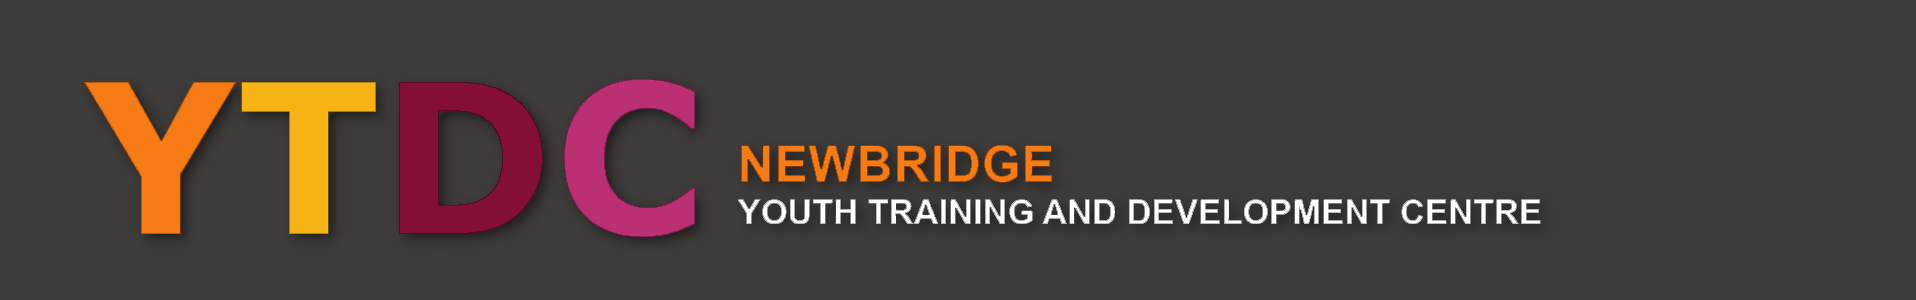
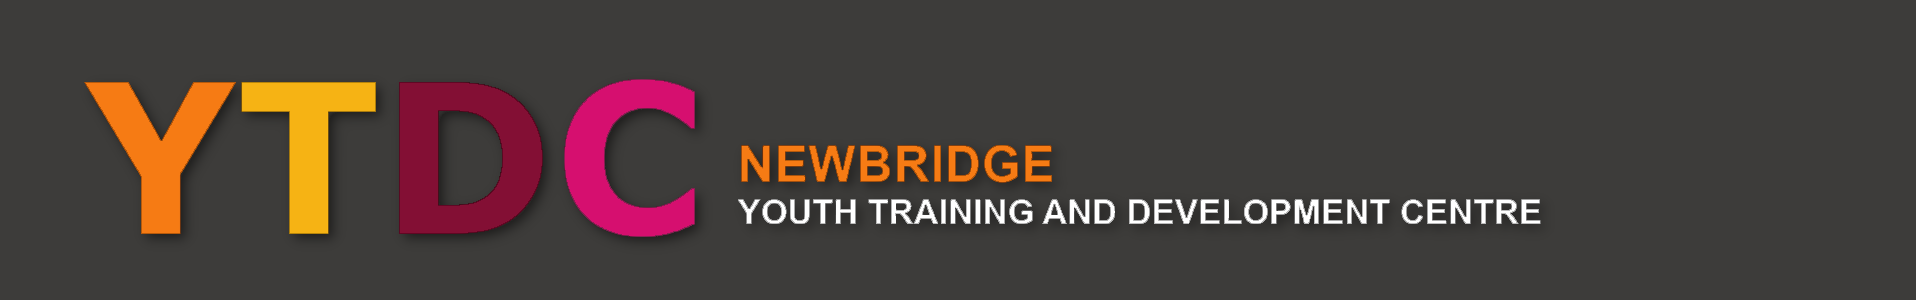
new pink bruh

Changed region(s): [[0.2771, 0.27, 0.3695, 0.78]]

diff --git a/style.css b/style.css
@@ -18,7 +18,7 @@
 }
 /* Setting navbar color */
 nav {
-	background-color: #bb3073;
+	background-color: #d60f6f;
 }
 
 .nav-item {
@@ -76,7 +76,7 @@ nav {
 
 /* reaction to hover on p in mega-menu*/
 .mega-menu p:hover, .single-menu p:hover {
-	background-color: #bb3073;
+	background-color: #d60f6f;
 	line-height: 40px;
 }
 
@@ -198,7 +198,7 @@ nav {
 
 /* changing color of hover to be pink*/
 .btn-outline-warning:hover {
-	color: #bb3073;
+	color: #d60f6f;
 	
 }
  /* Set the size of the div element that contains the map */
@@ -216,7 +216,7 @@ nav {
 
 footer {
 	color: #fff;
-	border-top: 3px solid #bb3073;
+	border-top: 3px solid #d60f6f;
 }
 
 .border-color-light {
@@ -251,7 +251,7 @@ padding: 10px 5% 30px 5%;
 }
 
 .arrows:hover {
-	color: #bb3073;
+	color: #d60f6f;
 }
  
 .card-header {
@@ -288,7 +288,7 @@ padding: 10px 5% 30px 5%;
 	color: #fff;
 }
 .bb3073 {
-	background-color: #bb3073;
+	background-color: #d60f6f;
 	text-align: justify;
 	padding: 30px;
 	width: 100%;
